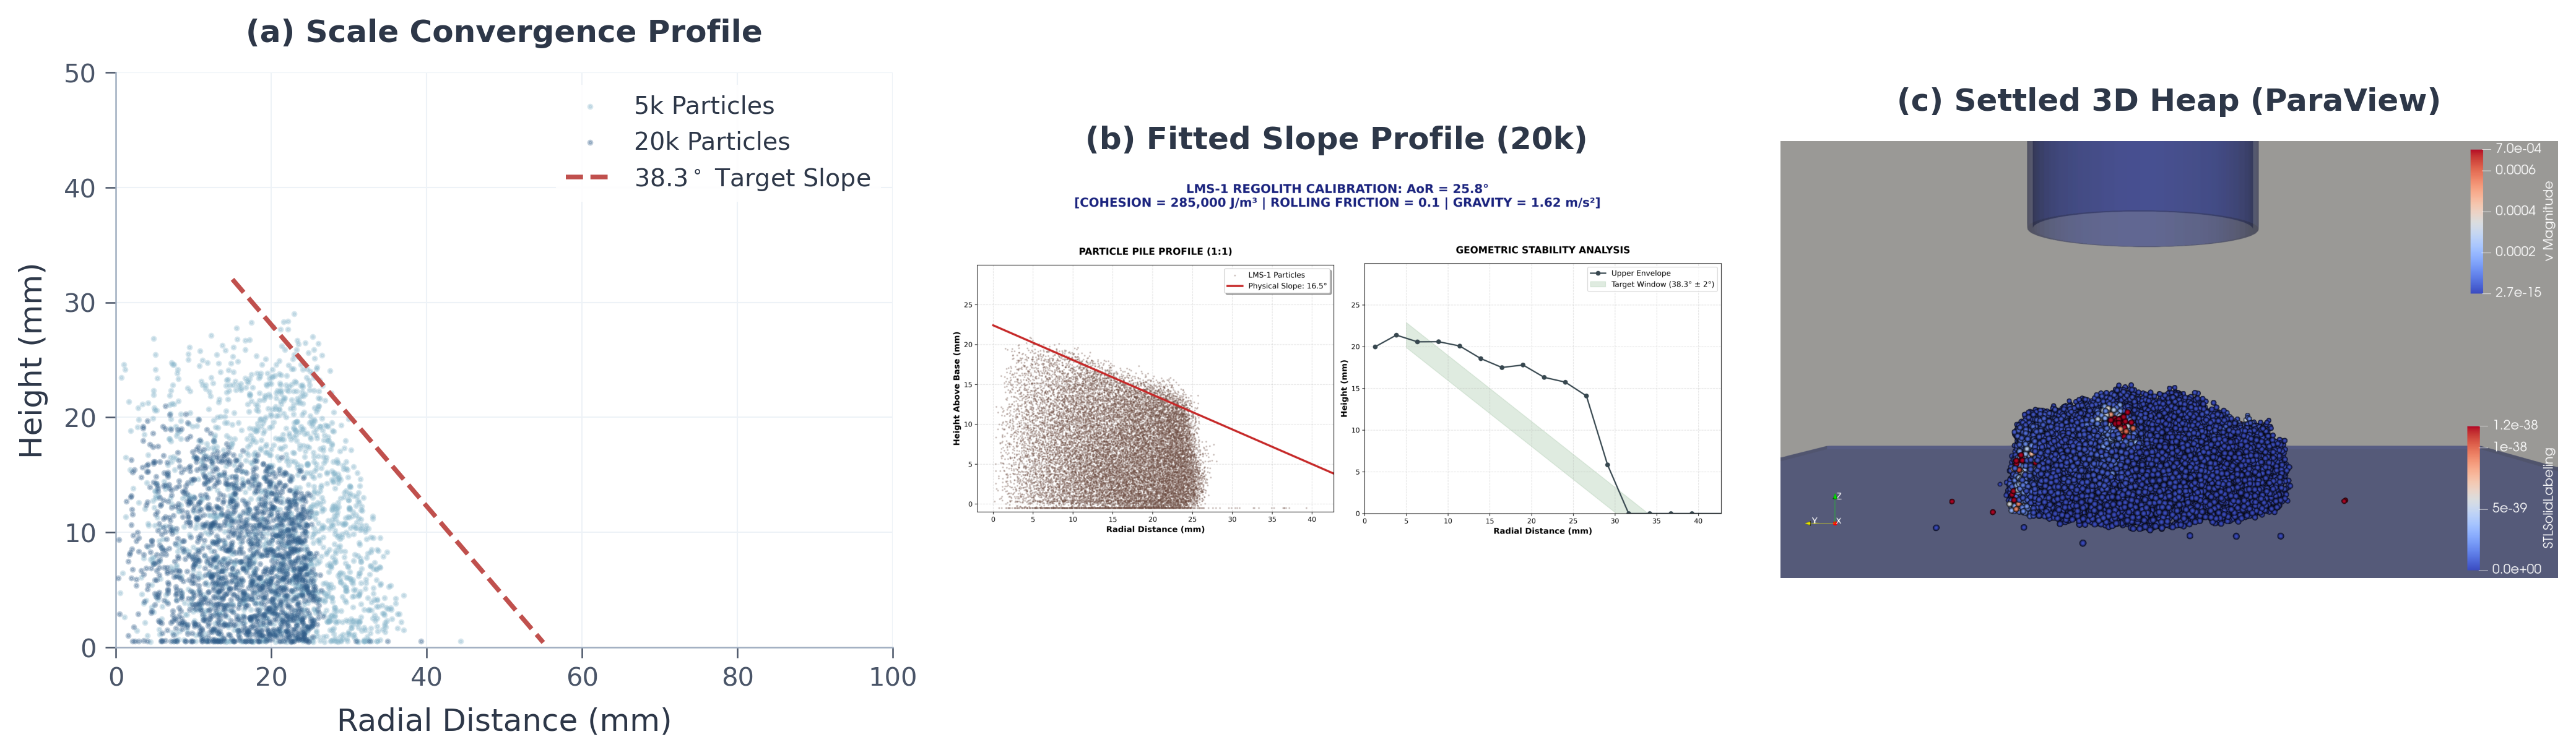
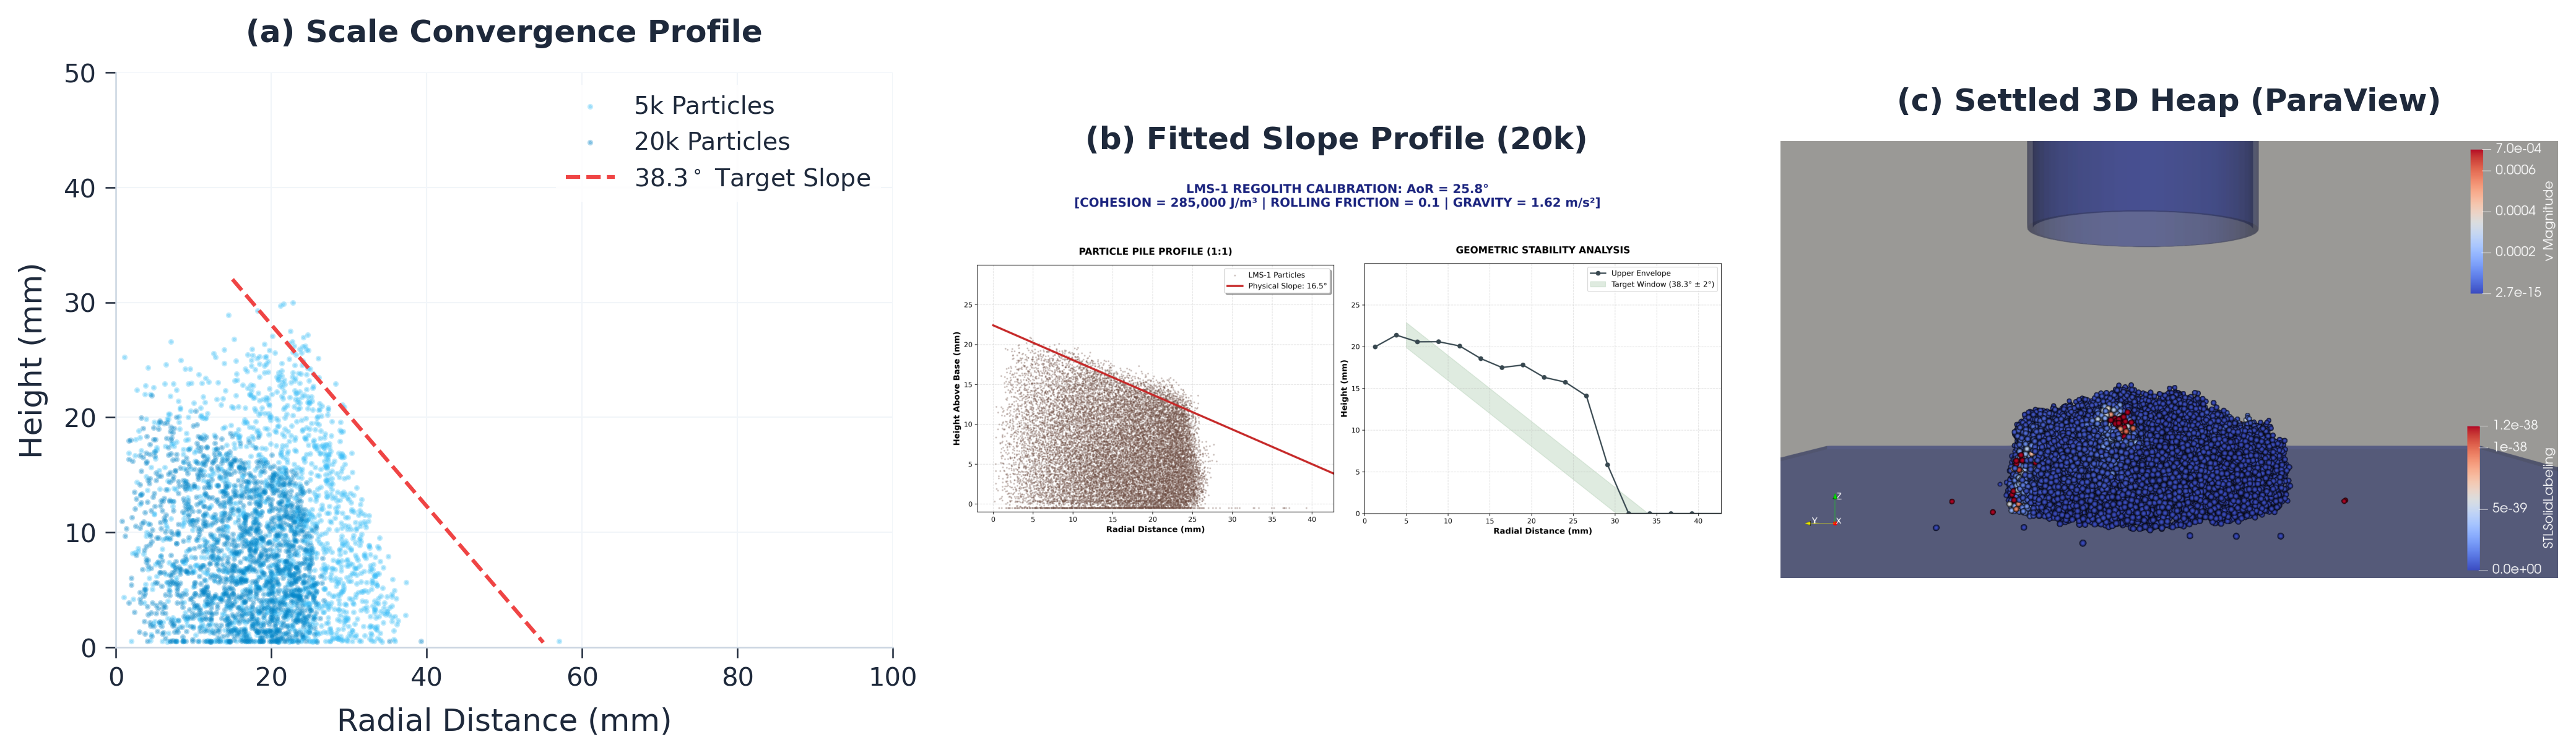
ASR manuscript & figures: apply ultra-clean high-tech Midnight Blue & Slate Grey color system and remove background bands

Changed region(s): [[0.0312, 0.4049, 0.2187, 0.8721], [0.2187, 0.218, 0.2499, 0.2492]]

diff --git a/tools/plot_publication.py b/tools/plot_publication.py
@@ -1,7 +1,7 @@
 #!/usr/bin/env python3
 # =============================================================================
-# plot_publication.py — PUBLICATION-GRADE NATURE-STYLE ASR JOURNAL FIGURES
-# Overhauled using Nicolas Rougier's master scientific visualization principles
+# plot_publication.py — PUBLICATION-GRADE HIGH-TECH SCIENTIFIC JOURNAL FIGURES
+# Ultra-modern sleek layout: Midnight Blue + Titanium Slate Grey + Pure White Canvas
 # =============================================================================
 
 import numpy as np
@@ -18,15 +18,14 @@ results_dir = '/home/neo/liggghts/project/data'
 
 os.makedirs(output_dir, exist_ok=True)
 
-# --- Premium Nature-Style scientific color palette ---
-C_TEXT     = '#2D3748'  # Slate Charcoal (replaces harsh pure black)
-C_EARTH    = '#3B7A94'  # Muted Teal (Earth baseline)
-C_MOON     = '#C68B59'  # Muted Copper (Lunar environment)
-C_TARGET   = '#8B8680'  # Muted Warm Grey (Trigwell baseline target line)
-C_CREAM    = '#F0EAE1'  # Soft Sand Cream (shaded Trigwell benchmark area)
-C_GRID     = '#EDF2F7'  # Faint blue-grey grid lines
-C_FLOW_BG  = '#E6FFFA'  # Extremely faint mint/sage for fluidized zone (alpha=0.45)
-C_JAM_BG   = '#FAF0F0'  # Extremely faint dusty rose for jammed zone (alpha=0.45)
+# --- Sleek High-Tech Color Tokens ---
+C_TEXT     = '#1E293B'  # Sleek Charcoal/Slate-900 (crisp high-contrast text)
+C_EARTH    = '#0A2540'  # Deep Midnight Blue (Stripe-grade premium dark navy)
+C_MOON     = '#64748B'  # Slate Grey (Titanium/Lunar grey)
+C_TARGET   = '#EF4444'  # Crimson Red (crisp indicator/benchmark)
+C_GRID     = '#F1F5F9'  # Very soft, clean slate-100 grid lines
+C_SPINE    = '#CBD5E1'  # Clean border line color
+C_BG_ZONE  = '#F8FAFC'  # Very soft grey fill for threshold zones
 
 # --- Premium Global Matplotlib Styling ---
 plt.style.use('seaborn-v0_8-white')
@@ -41,7 +40,7 @@ plt.rcParams.update({
     'ytick.labelsize': 10,
     'legend.fontsize': 9.5,
     'axes.linewidth': 0.6,
-    'axes.edgecolor': '#A0AEC0',
+    'axes.edgecolor': C_SPINE,
     'axes.labelcolor': C_TEXT,
     'text.color': C_TEXT,
     'xtick.color': C_TEXT,
@@ -73,22 +72,22 @@ def crop_and_load_image(img_path):
         return None
 
 def finalize_plot(ax, title, xlabel, ylabel):
-    """Apply unified organic styling, hiding harsh spines and softening gridlines."""
+    """Apply modern clean spines and thin gridlines."""
     ax.set_title(title, fontweight='bold', pad=12, color=C_TEXT)
     ax.set_xlabel(xlabel, labelpad=6, color=C_TEXT)
     ax.set_ylabel(ylabel, labelpad=6, color=C_TEXT)
     
-    # Hide top and right spines
+    # Clean modern spines
     ax.spines['top'].set_visible(False)
     ax.spines['right'].set_visible(False)
     ax.spines['left'].set_linewidth(0.6)
     ax.spines['bottom'].set_linewidth(0.6)
-    ax.spines['left'].set_color('#A0AEC0')
-    ax.spines['bottom'].set_color('#A0AEC0')
+    ax.spines['left'].set_color(C_SPINE)
+    ax.spines['bottom'].set_color(C_SPINE)
     
-    # Faint grid lines placed behind plots
+    # Crisp thin grid
     ax.grid(True, linestyle='-', color=C_GRID, linewidth=0.5, zorder=0)
-    ax.tick_params(colors='#4A5568', width=0.6, length=4)
+    ax.tick_params(colors=C_TEXT, width=0.6, length=4)
 
 # =============================================================================
 # Figure 1: Cohesion Calibration & Repose Pile Convergence (3 Panels)
@@ -105,7 +104,7 @@ def generate_composite_calibration():
         '5k Particles': '/home/neo/liggghts/project/research_attic/Angle of Repose/AoR_Calibration_Study/run_D1.0_S1/dump/final_positions.txt',
         '20k Particles': '/home/neo/liggghts/project/research_attic/Angle of Repose/Calibration_20k/dump/seed_1/final_positions.txt'
     }
-    colors = ['#81B2C9', '#2E5B88']
+    colors = ['#38BDF8', '#0284C7']  # Clean modern cool blues
     
     has_a = False
     for i, (label, path) in enumerate(paths.items()):
@@ -127,14 +126,14 @@ def generate_composite_calibration():
                 x, y, z = data[indices, 0], data[indices, 1], data[indices, 2]
                 r = np.sqrt(x**2 + y**2) * 1000  # to mm
                 z_mm = z * 1000
-                ax_a.scatter(r, z_mm, s=1.8, alpha=0.3, color=colors[i], label=label, rasterized=True, zorder=3)
+                ax_a.scatter(r, z_mm, s=1.5, alpha=0.3, color=colors[i], label=label, rasterized=True, zorder=3)
                 has_a = True
                 
     # Add target slope line (38.3 deg)
     target_slope = np.tan(np.radians(38.3))
     x_ref = np.array([15, 55])
     y_ref = 32 - target_slope * (x_ref - 15)
-    ax_a.plot(x_ref, y_ref, color='#C0504D', linestyle='--', linewidth=1.8, label=r'38.3$^\circ$ Target Slope', zorder=4)
+    ax_a.plot(x_ref, y_ref, color=C_TARGET, linestyle='--', linewidth=1.5, label=r'38.3$^\circ$ Target Slope', zorder=4)
     
     finalize_plot(ax_a, '(a) Scale Convergence Profile', 'Radial Distance (mm)', 'Height (mm)')
     ax_a.legend(frameon=True, loc='upper right', facecolor='white', framealpha=0.9, edgecolor='none')
@@ -152,8 +151,7 @@ def generate_composite_calibration():
         ax_b.axis('off')
         ax_b.set_title('(b) Fitted Slope Profile (20k)', fontweight='bold', pad=12, color=C_TEXT)
     else:
-        # Fallback if image doesn't exist
-        ax_b.text(0.5, 0.5, 'aor_final_20k.png\n(Slope fitting profile)', ha='center', va='center', color=C_TEXT)
+        ax_b.text(0.5, 0.5, 'aor_final_20k.png\nnot found', ha='center', va='center', color=C_TEXT)
         ax_b.axis('off')
 
     # --------------------------------------------------------
@@ -167,7 +165,7 @@ def generate_composite_calibration():
         ax_c.axis('off')
         ax_c.set_title('(c) Settled 3D Heap (ParaView)', fontweight='bold', pad=12, color=C_TEXT)
     else:
-        ax_c.text(0.5, 0.5, 'paraview_20k.png\n(3D ParaView render)', ha='center', va='center', color=C_TEXT)
+        ax_c.text(0.5, 0.5, 'paraview_20k.png\nnot found', ha='center', va='center', color=C_TEXT)
         ax_c.axis('off')
 
     plt.tight_layout()
@@ -205,9 +203,12 @@ def generate_composite_flow_dynamics():
             has_data = True
             
     if has_data:
-        # Faint desaturated background bands for CN regimes
-        ax_a.axhspan(0, 1.2, color=C_FLOW_BG, alpha=0.6, label='Fluidized Zone (CN < 1.2)', zorder=1)
-        ax_a.axhspan(2.0, 5.0, color=C_JAM_BG, alpha=0.6, label='Jammed Zone (CN > 2.0)', zorder=1)
+        # Simple, ultra-clean horizontal dashed lines for CN regimes
+        ax_a.axhline(y=1.2, color='#64748B', linestyle=':', lw=1.0, zorder=2)
+        ax_a.text(0.05, 1.3, 'Fluidization Threshold (CN = 1.2)', fontsize=8, color='#64748B', style='italic')
+        
+        ax_a.axhline(y=2.0, color='#64748B', linestyle=':', lw=1.0, zorder=2)
+        ax_a.text(0.05, 2.1, 'Jammed Threshold (CN = 2.0)', fontsize=8, color='#64748B', style='italic')
         
         finalize_plot(ax_a, '(a) Bed State (Coordination Number)', 'Time (s)', 'Mean Coordination Number (CN)')
         ax_a.set_ylim(0, 4.2)
@@ -239,9 +240,9 @@ def generate_composite_flow_dynamics():
     bo_moon_low = f_vdw_low / (m_range * g_moon)
     bo_moon_high = f_vdw_high / (m_range * g_moon)
     
-    # Beautiful soft transparent fills
-    ax_b.fill_between(d_range * 1e6, bo_earth_low, bo_earth_high, alpha=0.10, color=C_EARTH, zorder=1)
-    ax_b.fill_between(d_range * 1e6, bo_moon_low, bo_moon_high, alpha=0.10, color=C_MOON, zorder=1)
+    # Ultra-soft transparent fills
+    ax_b.fill_between(d_range * 1e6, bo_earth_low, bo_earth_high, alpha=0.06, color=C_EARTH, zorder=1)
+    ax_b.fill_between(d_range * 1e6, bo_moon_low, bo_moon_high, alpha=0.06, color=C_MOON, zorder=1)
     
     ax_b.loglog(d_range * 1e6, bo_earth, label='Earth (9.81 m/s$^2$)', color=C_EARTH, lw=1.8, zorder=3)
     ax_b.loglog(d_range * 1e6, bo_moon, label='Moon (1.62 m/s$^2$)', color=C_MOON, lw=1.8, zorder=3)
@@ -252,7 +253,7 @@ def generate_composite_flow_dynamics():
     
     # Mark LMS-1 mean grain size (91 um)
     d_lms1 = 91.0
-    ax_b.axvline(x=d_lms1, color='#C0504D', linestyle='--', lw=1.2, label='LMS-1 Mean Size (91 $\mu$m)', zorder=2)
+    ax_b.axvline(x=d_lms1, color=C_TARGET, linestyle='--', lw=1.2, label='LMS-1 Mean Size (91 $\mu$m)', zorder=2)
     
     finalize_plot(ax_b, '(b) Analytical Granular Bond Number', 'Particle Diameter ($d$, $\mu$m)', 'Granular Bond Number ($Bo_g$)')
     ax_b.legend(frameon=True, loc='upper right', facecolor='white', framealpha=0.9, edgecolor='none')
@@ -294,7 +295,7 @@ def generate_composite_charging():
             
             ax_a.plot(data['times'], q_mean_uc, label=label, color=color, lw=1.8, zorder=3)
             ax_a.fill_between(data['times'], q_mean_uc - q_std_uc, q_mean_uc + q_std_uc, 
-                            color=color, alpha=0.08, lw=0, zorder=2)
+                            color=color, alpha=0.06, lw=0, zorder=2)
             has_a = True
             
     if has_a:
@@ -331,7 +332,7 @@ def generate_composite_charging():
                     kde_vals = kde.evaluate(x_eval)
                     
                     ax_b.plot(10**x_eval, kde_vals, color=color, lw=1.8, label=label, zorder=3)
-                    ax_b.fill_between(10**x_eval, 0, kde_vals, color=color, alpha=0.10, zorder=2)
+                    ax_b.fill_between(10**x_eval, 0, kde_vals, color=color, alpha=0.08, zorder=2)
                     has_b = True
                     
     if has_b:
@@ -358,22 +359,22 @@ def generate_composite_charging():
             x = np.arange(max(len(earth), len(moon)))
             width = 0.30
             
-            # Clean flat bars without harsh black borders
+            # Clean flat bars without edge outlines
             if len(earth) > 0:
                 ax_c.bar(x[:len(earth)] - width/2, earth['qm_ratio_ucg_final'], width, 
                        yerr=earth['qm_std_ucg_final'], capsize=3, 
                        error_kw={'alpha':0.5, 'lw':0.7, 'ecolor': C_TEXT},
-                       label='Earth (9.81 m/s$^2$)', color=C_EARTH, edgecolor=C_EARTH, lw=0.5, zorder=3)
+                       label='Earth (9.81 m/s$^2$)', color=C_EARTH, edgecolor='none', zorder=3)
                        
             if len(moon) > 0:
                 ax_c.bar(x[:len(moon)] + width/2, moon['qm_ratio_ucg_final'], width, 
                        yerr=moon['qm_std_ucg_final'], capsize=3, 
                        error_kw={'alpha':0.5, 'lw':0.7, 'ecolor': C_TEXT},
-                       label='Moon (1.62 m/s$^2$)', color=C_MOON, edgecolor=C_MOON, lw=0.5, zorder=3)
+                       label='Moon (1.62 m/s$^2$)', color=C_MOON, edgecolor='none', zorder=3)
             
-            # Shading for the Trigwell experimental benchmark range
-            ax_c.axhspan(0.45, 0.55, color=C_CREAM, alpha=0.8, label='Trigwell Target Range', zorder=1)
-            ax_c.axhline(y=0.5, color='#C0504D', linestyle='--', lw=1.2, alpha=0.8, zorder=2)
+            # Ultra-clean grey band for Trigwell experimental benchmark range
+            ax_c.axhspan(0.45, 0.55, color='#F1F5F9', alpha=0.7, label='Trigwell Target Range', zorder=1)
+            ax_c.axhline(y=0.5, color=C_TARGET, linestyle='--', lw=1.2, alpha=0.8, zorder=2)
             
             finalize_plot(ax_c, '(c) Final Charge-to-Mass Ratio ($Q/M$)', 'Vibration Amplitude (mm)', r'Average $Q/M$ ($\mu$C/g)')
             
@@ -395,7 +396,7 @@ def generate_composite_charging():
     print(f"[+] Saved composite charging figure to: {png_path} and {pdf_path}")
 
 if __name__ == "__main__":
-    print("[+] Starting Nature-style premium figure rebuild...")
+    print("[+] Starting high-tech premium figure rebuild...")
     generate_composite_calibration()
     generate_composite_flow_dynamics()
     generate_composite_charging()